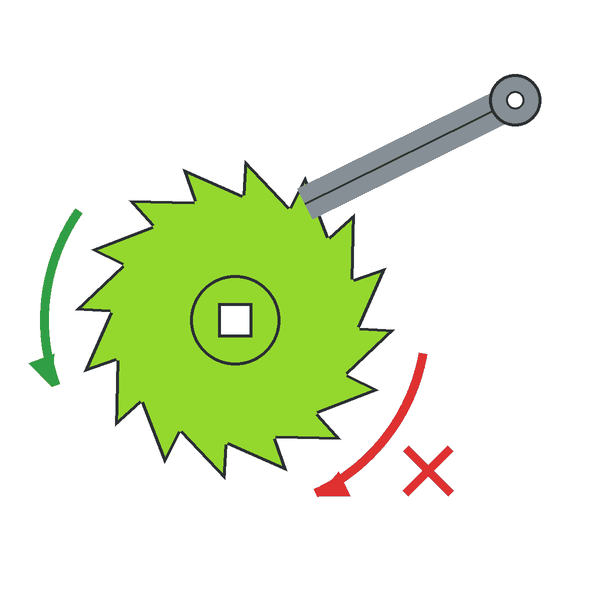
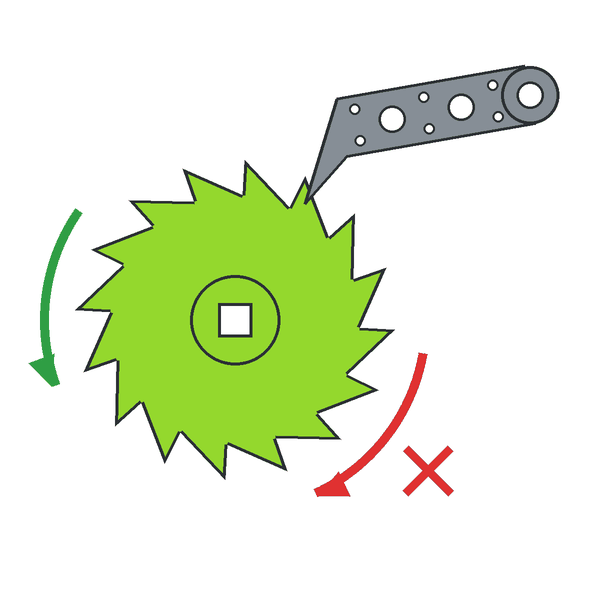
Ratchet and pawl: draw the pawl like VEX's Short Low-Profile Pawl (holed bar, angled hook)

Changed region(s): [[0.48, 0.09, 0.93, 0.36]]

diff --git a/tools/diagrams.py b/tools/diagrams.py
@@ -2713,11 +2713,41 @@ def ratchet_and_pawl():
     d.rectangle((cx - 34, cy - 34, cx + 34, cy + 34), fill="white", outline=EDGE, width=6)
     tip_a = face + math.radians(5)                # pawl tip sits just past the face, down in the gap
     tip = (cx + (root + 20) * math.cos(tip_a), cy + (root + 20) * math.sin(tip_a))
-    pivot = (1030, 200)
-    d.line((pivot, tip), fill="#868e96", width=70)          # pawl lever
-    d.line((pivot, tip), fill=EDGE, width=4)
-    d.ellipse((pivot[0] - 52, pivot[1] - 52, pivot[0] + 52, pivot[1] + 52), fill="#868e96", outline=EDGE, width=6)
-    d.ellipse((pivot[0] - 18, pivot[1] - 18, pivot[0] + 18, pivot[1] + 18), fill="white", outline=EDGE, width=4)
+    pivot = (1060, 190)
+    # VEX Short Low-Profile Pawl: flat bar with rounded end and a row of holes, bent into a pointed hook
+    ux, uy = tip[0] - pivot[0], tip[1] - pivot[1]
+    L = math.hypot(ux, uy); ux, uy = ux / L, uy / L
+    bend = math.radians(-38)                                  # the hook bends down toward the teeth
+    hx, hy = ux * math.cos(bend) - uy * math.sin(bend), ux * math.sin(bend) + uy * math.cos(bend)
+    elbow = (tip[0] - hx * 170, tip[1] - hy * 170)
+    W = 58                                                    # half the bar width
+    def side(p0, p1, w):
+        vx, vy = p1[0] - p0[0], p1[1] - p0[1]; n = math.hypot(vx, vy)
+        return (-vy / n * w, vx / n * w)
+    nx, ny = side(pivot, elbow, W)
+    gray = "#868e96"
+    d.polygon([(pivot[0] + nx, pivot[1] + ny), (elbow[0] + nx, elbow[1] + ny),
+               (elbow[0] - nx, elbow[1] - ny), (pivot[0] - nx, pivot[1] - ny)], fill=gray)
+    d.ellipse((pivot[0] - W, pivot[1] - W, pivot[0] + W, pivot[1] + W), fill=gray)
+    d.polygon([(elbow[0] + nx, elbow[1] + ny), tip, (elbow[0] - nx, elbow[1] - ny)], fill=gray)
+    # outline: redraw edges thinly so it reads as one part
+    for p0, p1 in [((pivot[0] + nx, pivot[1] + ny), (elbow[0] + nx, elbow[1] + ny)),
+                   ((pivot[0] - nx, pivot[1] - ny), (elbow[0] - nx, elbow[1] - ny)),
+                   ((elbow[0] + nx, elbow[1] + ny), tip), ((elbow[0] - nx, elbow[1] - ny), tip)]:
+        d.line((p0, p1), fill=EDGE, width=6)
+    d.arc((pivot[0] - W, pivot[1] - W, pivot[0] + W, pivot[1] + W), 0, 360, fill=EDGE, width=6)
+    seg = math.hypot(elbow[0] - pivot[0], elbow[1] - pivot[1])
+    k = 0
+    while k * 70 <= seg - 20:                                 # big holes on the axis, small ones in between, offset
+        t = k * 70 / seg
+        x, y = pivot[0] + (elbow[0] - pivot[0]) * t, pivot[1] + (elbow[1] - pivot[1]) * t
+        if k % 2 == 0:
+            d.ellipse((x - 27, y - 27, x + 27, y + 27), fill="white", outline=EDGE, width=5)
+        else:
+            for sgn in (1, -1):
+                ox, oy = nx / W * 32 * sgn, ny / W * 32 * sgn
+                d.ellipse((x + ox - 11, y + oy - 11, x + ox + 11, y + oy + 11), fill="white", outline=EDGE, width=4)
+        k += 1
     spin(d, cx, cy, outer + 70, 215, 160, GREEN, 18, 60)    # turning this way lifts the pawl over the teeth
     spin(d, cx, cy, outer + 70, 10, 65, "#e03131", 18, 60)  # this way the pawl catches
     ex, ey = cx + (outer + 170) * math.cos(math.radians(38)), cy + (outer + 170) * math.sin(math.radians(38))
